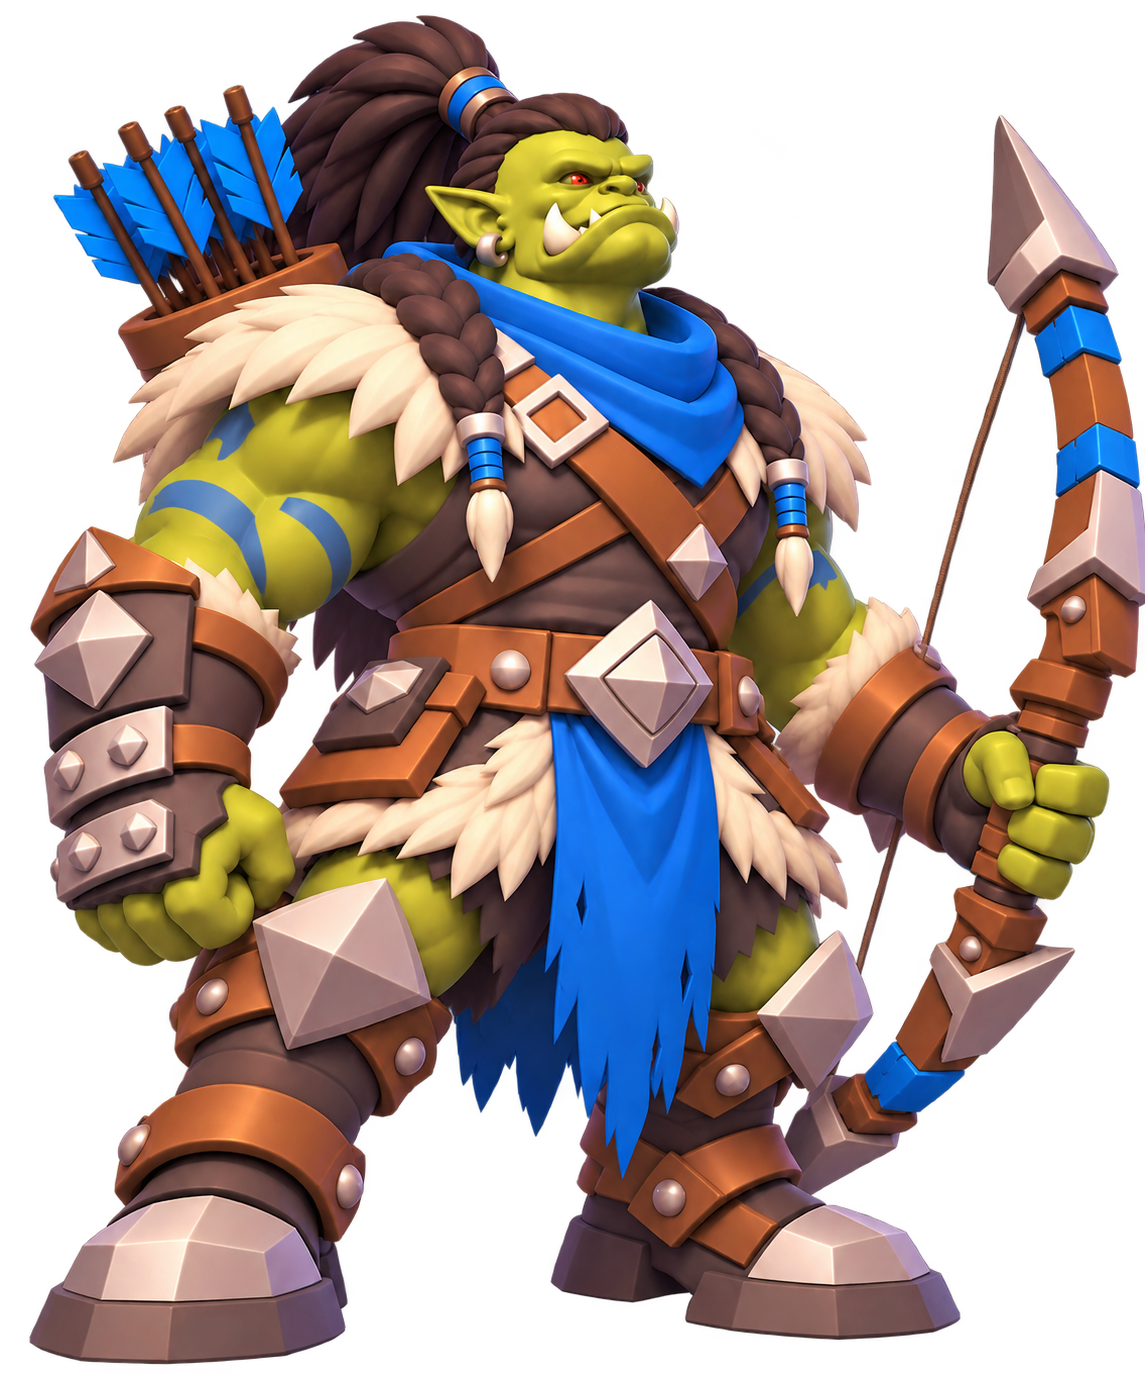
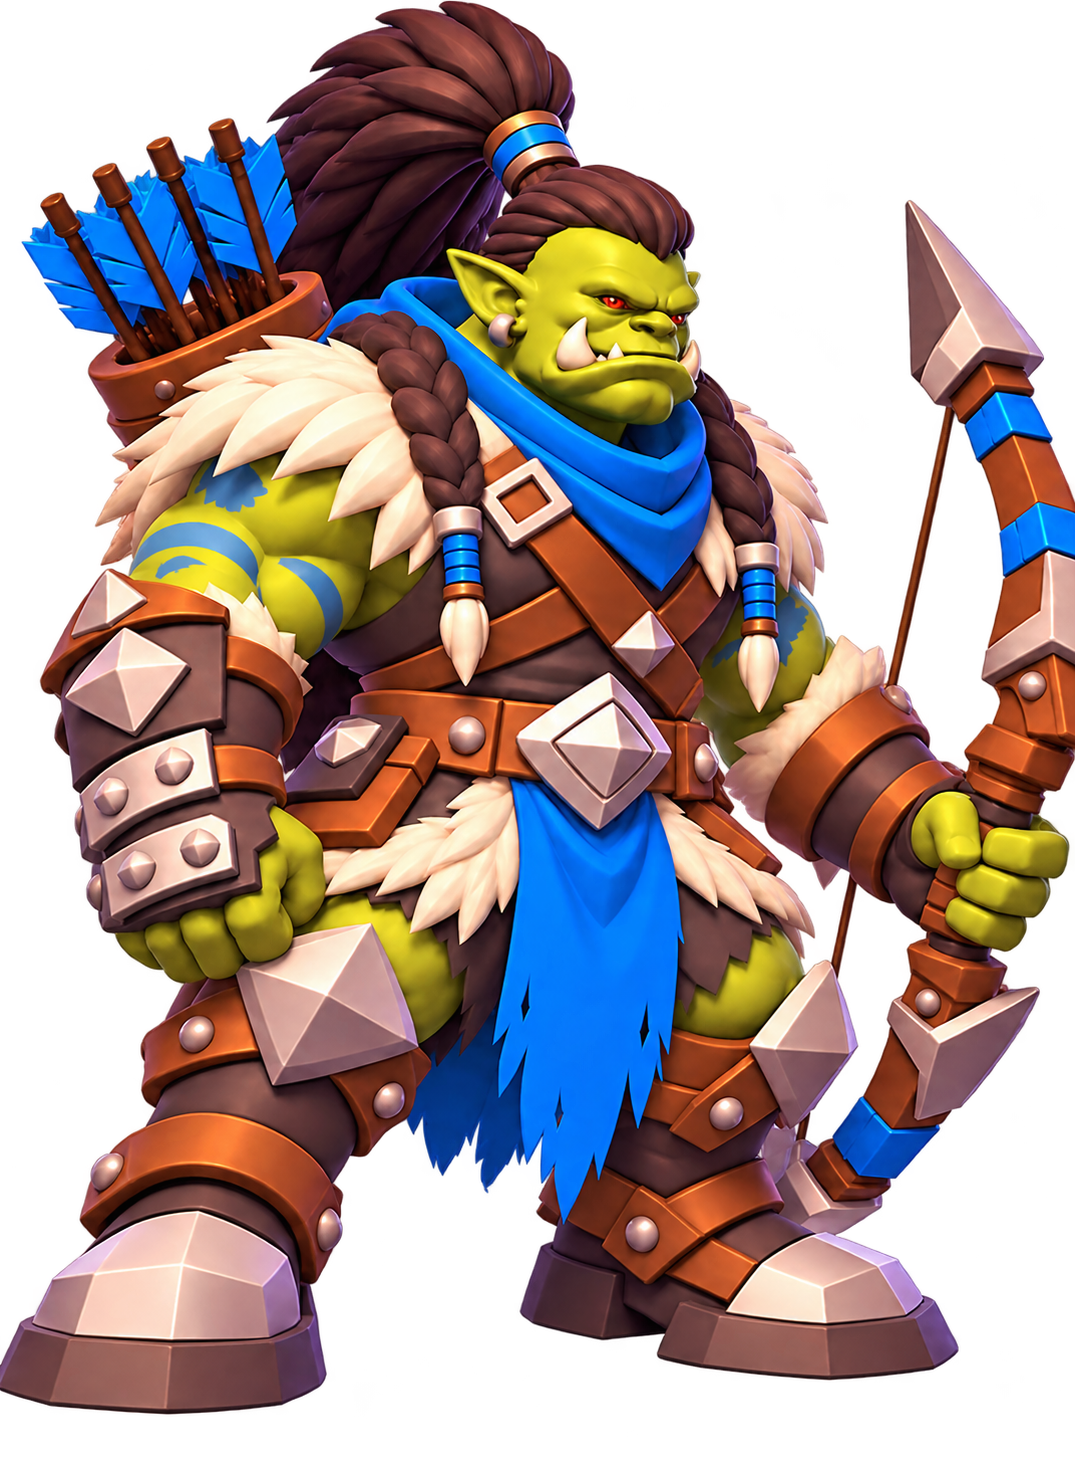
fix: replace aligned orc hunter third frame

diff --git a/orc-hunter-animation-preview.html b/orc-hunter-animation-preview.html
@@ -23,7 +23,7 @@
   </main>
   <script>
     const base = 'assets/character-portraits/calibration-tests/orc-hunter-five-frame/';
-    const frames = ['frame-01.png', 'frame-02.png', 'frame-03.png', 'frame-04.png', 'frame-05.png'];
+    const frames = ['frame-01.png', 'frame-02.png', 'frame-03-replacement.png', 'frame-04.png', 'frame-05.png'];
     const order = [0, 1, 2, 3, 4, 3, 2, 1];
     const frameDurationMs = 312.5;
     const preview = document.querySelector('#preview');

diff --git a/tools/calibrate-orc-hunter-five-frame-sequence.py b/tools/calibrate-orc-hunter-five-frame-sequence.py
@@ -13,7 +13,7 @@ OUTPUT = ROOT / "assets" / "character-portraits" / "calibration-tests" / "orc-hu
 SOURCES = [
     Path(r"C:\Users\User\AppData\Local\Temp\codex-clipboard-c3d96f4a-677e-48f5-b39d-0d3710b4dc69.png"),
     Path(r"C:\Users\User\AppData\Local\Temp\codex-clipboard-52b4fcb9-381e-4c22-b434-ef66ddd5d6ba.png"),
-    Path(r"C:\Users\User\AppData\Local\Temp\codex-clipboard-ffcbacfa-85e0-417b-9124-22e4368c090b.png"),
+    Path(r"C:\Users\User\AppData\Local\Temp\codex-clipboard-d1cea064-8e12-4a78-9b0a-49a9cf869bc7.png"),
     Path(r"C:\Users\User\AppData\Local\Temp\codex-clipboard-a1e4a6cc-edc1-47dc-be17-17296663a276.png"),
     Path(r"C:\Users\User\AppData\Local\Temp\codex-clipboard-4bb71dab-3e53-4822-8cd4-21def50b4bc6.png"),
 ]
@@ -21,10 +21,11 @@ CANVAS = (1500, 1600)
 TARGET_CENTER_X = 650
 TARGET_FOOT_Y = 1500
 SAFETY_MARGIN = 70
+REFERENCE_BODY_HEIGHT = 1358
 
 
 def repair_fourth_alpha(images):
-    reference = np.asarray(images[2], dtype=np.float32)
+    reference = np.asarray(images[4], dtype=np.float32)
     target = np.asarray(images[3], dtype=np.float32)
     rgb_max = target[:, :, :3].max(axis=2)
     rgb_min = target[:, :, :3].min(axis=2)
@@ -109,6 +110,19 @@ def analyze(image, digest):
     }
 
 
+def resize_premultiplied(image, size):
+    rgba = np.asarray(image.convert("RGBA"), dtype=np.float32)
+    alpha = rgba[:, :, 3:4] / 255.0
+    premultiplied = np.concatenate((rgba[:, :, :3] * alpha, rgba[:, :, 3:4]), axis=2)
+    resized = np.asarray(
+        Image.fromarray(np.clip(premultiplied, 0, 255).astype(np.uint8), "RGBA").resize(size, Image.Resampling.LANCZOS),
+        dtype=np.float32,
+    )
+    out_alpha = resized[:, :, 3:4]
+    rgb = np.divide(resized[:, :, :3] * 255.0, out_alpha, out=np.zeros_like(resized[:, :, :3]), where=out_alpha > 0)
+    return Image.fromarray(np.clip(np.concatenate((rgb, out_alpha), axis=2), 0, 255).astype(np.uint8), "RGBA")
+
+
 def main():
     OUTPUT.mkdir(parents=True, exist_ok=True)
     originals = []
@@ -130,27 +144,33 @@ def main():
     metrics = [analyze(image, digest) for image, digest in zip(originals, digests)]
     corrected = []
     for index, (image, metric) in enumerate(zip(originals, metrics), 1):
-        translation_x = round(TARGET_CENTER_X - metric["torso_center_x"])
-        translation_y = round(TARGET_FOOT_Y - metric["foot_y"])
+        scale = REFERENCE_BODY_HEIGHT / metric["visual_body_height"] if index == 3 else 1.0
+        resized = resize_premultiplied(image, (round(image.width * scale), round(image.height * scale)))
+        translation_x = round(TARGET_CENTER_X - metric["torso_center_x"] * scale)
+        translation_y = round(TARGET_FOOT_Y - metric["foot_y"] * scale)
         canvas = Image.new("RGBA", CANVAS, (0, 0, 0, 0))
-        canvas.alpha_composite(image, (translation_x, translation_y))
-        canvas.save(OUTPUT / f"frame-{index:02d}.png", compress_level=6)
+        canvas.alpha_composite(resized, (translation_x, translation_y))
+        frame_path = OUTPUT / ("frame-03-replacement.png" if index == 3 else f"frame-{index:02d}.png")
+        if index == 3 or not frame_path.exists():
+            canvas.save(frame_path, compress_level=6)
+        else:
+            canvas = Image.open(frame_path).convert("RGBA")
         corrected.append(canvas)
 
         bbox = metric["alpha_bbox_low_threshold"]
         corrected_bbox = [
-            translation_x + bbox[0], translation_y + bbox[1],
-            translation_x + bbox[2], translation_y + bbox[3],
+            round(translation_x + bbox[0] * scale), round(translation_y + bbox[1] * scale),
+            round(translation_x + bbox[2] * scale), round(translation_y + bbox[3] * scale),
         ]
         margins = [corrected_bbox[0], corrected_bbox[1], CANVAS[0] - corrected_bbox[2], CANVAS[1] - corrected_bbox[3]]
         metric.update({
-            "scale": 1.0,
+            "scale": round(scale, 6),
             "translation_x": translation_x,
             "translation_y": translation_y,
-            "corrected_visual_body_height": metric["visual_body_height"],
-            "corrected_head_y": metric["visual_head_y"] + translation_y,
-            "corrected_foot_y": metric["foot_y"] + translation_y,
-            "corrected_torso_center_x": metric["torso_center_x"] + translation_x,
+            "corrected_visual_body_height": round(metric["visual_body_height"] * scale, 2),
+            "corrected_head_y": round(metric["visual_head_y"] * scale + translation_y, 2),
+            "corrected_foot_y": round(metric["foot_y"] * scale + translation_y, 2),
+            "corrected_torso_center_x": round(metric["torso_center_x"] * scale + translation_x, 2),
             "corrected_low_alpha_bbox": corrected_bbox,
             "transparent_margins_left_top_right_bottom": margins,
             "effect_safety_margin_pass": min(margins) >= SAFETY_MARGIN,
@@ -167,8 +187,8 @@ def main():
         "target_foot_y": TARGET_FOOT_Y,
         "target_torso_center_x": TARGET_CENTER_X,
         "minimum_safety_margin": SAFETY_MARGIN,
-        "scaling_decision": "No scaling; measured body-height spread is about 1.1% and consistent with pose variation",
-        "alpha_repair": "Frame 4 contained an opaque checkerboard; its alpha and edge pixels were restored from the near-identical frame 3 silhouette without redrawing",
+        "scaling_decision": "Replacement frame 3 scaled uniformly to the stable 1358 px body-height reference; frames 1, 2, 4, and 5 remain at 1.0",
+        "alpha_repair": "Frame 4 contained an opaque checkerboard; its alpha was restored using connected-background detection with the same-size frame 5 as a contamination reference",
         "local_redraw_difference": "Minor AI redraw differences remain in face angle and jaw expression across frames 1-5; body proportions are consistent enough for a translation-only first test",
         "container_check": "Preview stage uses overflow:visible and object-fit:contain, so bow and hair are not clipped",
         "playback": {"frame_duration_ms": 312.5, "loop_duration_ms": 2500, "order": [1, 2, 3, 4, 5, 4, 3, 2]},
@@ -180,7 +200,7 @@ def main():
     contact = Image.new("RGBA", (1425, 304), (24, 29, 43, 255))
     for index, frame in enumerate(corrected):
         contact.alpha_composite(frame.resize(thumb_size, Image.Resampling.LANCZOS), (index * thumb_size[0], 0))
-    contact.save(OUTPUT / "contact-sheet.png")
+    contact.save(OUTPUT / "contact-sheet-v2.png")
 
     colors = [(255, 80, 80, 78), (80, 200, 255, 78), (130, 255, 120, 78), (255, 210, 80, 78), (220, 110, 255, 78)]
     overlay = Image.new("RGBA", CANVAS, (0, 0, 0, 255))
@@ -191,7 +211,7 @@ def main():
     draw = ImageDraw.Draw(overlay)
     draw.line((0, TARGET_FOOT_Y, CANVAS[0], TARGET_FOOT_Y), fill=(255, 255, 255, 220), width=2)
     draw.line((TARGET_CENTER_X, 0, TARGET_CENTER_X, CANVAS[1]), fill=(255, 255, 255, 160), width=2)
-    overlay.save(OUTPUT / "alignment-overlay.png")
+    overlay.save(OUTPUT / "alignment-overlay-v2.png")
 
 
 if __name__ == "__main__":
